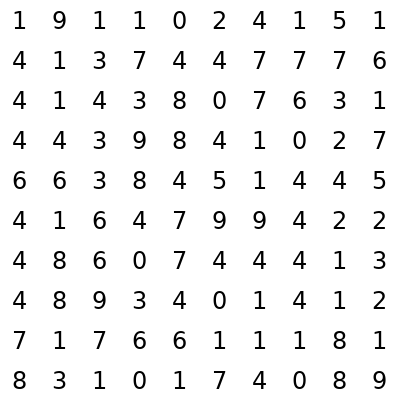
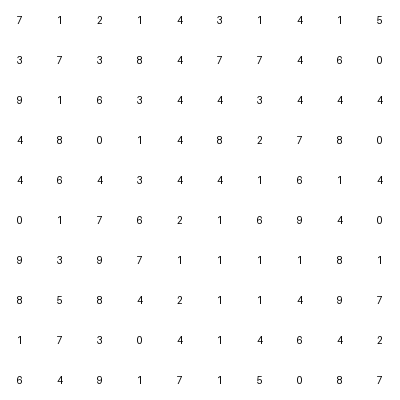
8 grids + unannounced attention grid, 7 of 9 for the bonus, 4 min; neutral consent page
Remove course, university and team names from the participant-facing page; questions
go through Prolific messages; note that payment requires finishing. The attention grid
now has the normal 25 s limit and counts toward the bonus, so it needs no explanation.

diff --git a/docs/grids.js b/docs/grids.js
@@ -1,2 +1,2 @@
 // Generated by stimuli/make_grids.py - do not edit by hand.
-window.GRIDS = [{"id": "g01", "kind": "scored", "answer": 8, "cells": [[1, 2, 1, 2, 5, 5, 6, 7, 1, 4], [6, 2, 4, 4, 1, 4, 9, 2, 1, 4], [4, 4, 1, 0, 6, 4, 4, 1, 4, 9], [5, 3, 1, 8, 4, 4, 7, 1, 7, 4], [3, 4, 4, 0, 9, 6, 8, 6, 9, 7], [8, 4, 3, 1, 0, 1, 8, 5, 6, 9], [8, 7, 7, 0, 1, 3, 4, 2, 1, 5], [6, 1, 2, 1, 0, 1, 1, 7, 9, 8], [4, 8, 1, 7, 5, 1, 1, 2, 1, 4], [4, 1, 1, 1, 9, 4, 6, 8, 5, 1]]}, {"id": "g02", "kind": "scored", "answer": 9, "cells": [[0, 3, 3, 1, 5, 0, 9, 0, 4, 0], [4, 5, 1, 4, 6, 1, 0, 1, 3, 7], [4, 9, 4, 0, 1, 4, 4, 7, 3, 4], [6, 0, 4, 0, 6, 4, 6, 5, 2, 8], [9, 1, 1, 4, 0, 4, 8, 5, 1, 1], [7, 1, 4, 1, 8, 4, 1, 7, 1, 5], [4, 1, 4, 8, 0, 4, 7, 8, 1, 4], [1, 1, 8, 2, 1, 7, 1, 7, 4, 7], [7, 1, 4, 8, 4, 1, 8, 4, 2, 4], [5, 1, 2, 6, 9, 0, 2, 8, 1, 6]]}, {"id": "g03", "kind": "scored", "answer": 11, "cells": [[1, 9, 1, 1, 0, 2, 4, 1, 5, 1], [4, 1, 3, 7, 4, 4, 7, 7, 7, 6], [4, 1, 4, 3, 8, 0, 7, 6, 3, 1], [4, 4, 3, 9, 8, 4, 1, 0, 2, 7], [6, 6, 3, 8, 4, 5, 1, 4, 4, 5], [4, 1, 6, 4, 7, 9, 9, 4, 2, 2], [4, 8, 6, 0, 7, 4, 4, 4, 1, 3], [4, 8, 9, 3, 4, 0, 1, 4, 1, 2], [7, 1, 7, 6, 6, 1, 1, 1, 8, 1], [8, 3, 1, 0, 1, 7, 4, 0, 8, 9]]}, {"id": "g04", "kind": "scored", "answer": 12, "cells": [[7, 6, 1, 4, 5, 2, 1, 4, 7, 3], [4, 1, 5, 5, 3, 0, 1, 1, 1, 4], [4, 1, 5, 1, 8, 6, 0, 8, 7, 4], [4, 5, 9, 1, 9, 9, 3, 7, 2, 2], [5, 4, 1, 3, 1, 7, 9, 4, 1, 1], [2, 1, 9, 6, 0, 1, 1, 8, 4, 8], [4, 3, 9, 5, 5, 8, 8, 9, 8, 4], [4, 9, 6, 7, 1, 0, 4, 0, 7, 1], [7, 6, 1, 1, 3, 1, 4, 4, 1, 1], [7, 4, 7, 1, 7, 0, 7, 4, 4, 1]]}, {"id": "g05", "kind": "scored", "answer": 13, "cells": [[6, 4, 4, 4, 1, 4, 7, 4, 3, 7], [4, 0, 2, 4, 7, 7, 1, 5, 3, 6], [4, 1, 0, 2, 5, 1, 1, 7, 7, 6], [4, 4, 4, 7, 1, 4, 4, 0, 1, 4], [7, 1, 1, 7, 1, 7, 1, 0, 2, 0], [3, 8, 4, 8, 1, 4, 4, 0, 4, 0], [1, 7, 1, 4, 6, 1, 3, 3, 6, 7], [4, 2, 4, 9, 1, 4, 9, 9, 7, 3], [5, 0, 6, 1, 1, 1, 2, 9, 2, 3], [8, 2, 5, 6, 5, 3, 1, 1, 0, 1]]}, {"id": "g06", "kind": "scored", "answer": 14, "cells": [[3, 9, 0, 1, 8, 0, 7, 4, 4, 8], [2, 7, 1, 4, 1, 7, 0, 5, 4, 9], [4, 8, 3, 7, 2, 8, 7, 4, 8, 1], [1, 7, 4, 7, 2, 2, 7, 6, 1, 1], [6, 1, 3, 7, 7, 9, 4, 1, 1, 1], [5, 4, 4, 1, 3, 8, 1, 5, 1, 1], [1, 7, 2, 1, 4, 7, 4, 9, 1, 4], [3, 1, 4, 7, 9, 9, 1, 8, 6, 8], [6, 1, 4, 1, 1, 1, 1, 6, 7, 4], [0, 8, 5, 4, 1, 8, 8, 9, 9, 5]]}, {"id": "g07", "kind": "scored", "answer": 15, "cells": [[1, 1, 7, 3, 5, 5, 4, 3, 1, 1], [2, 4, 7, 6, 4, 1, 7, 0, 1, 1], [8, 8, 1, 9, 8, 7, 8, 0, 0, 4], [7, 4, 4, 1, 9, 1, 8, 7, 4, 4], [1, 5, 7, 5, 1, 3, 1, 2, 4, 4], [1, 1, 7, 7, 0, 5, 4, 2, 8, 9], [6, 4, 3, 8, 1, 4, 9, 5, 6, 8], [7, 1, 8, 4, 4, 2, 4, 8, 7, 5], [8, 4, 7, 4, 8, 0, 9, 4, 4, 1], [1, 8, 7, 8, 4, 7, 5, 7, 1, 1]]}, {"id": "g08", "kind": "scored", "answer": 17, "cells": [[4, 0, 3, 7, 0, 4, 9, 5, 7, 4], [1, 0, 4, 9, 7, 4, 0, 8, 2, 4], [1, 7, 1, 4, 1, 1, 1, 3, 1, 7], [4, 4, 4, 2, 9, 4, 4, 9, 8, 7], [6, 7, 7, 3, 3, 4, 7, 4, 7, 3], [7, 2, 7, 5, 5, 4, 3, 5, 7, 4], [9, 6, 6, 2, 0, 4, 7, 4, 9, 1], [4, 1, 0, 4, 4, 1, 1, 7, 1, 8], [1, 6, 1, 1, 9, 4, 4, 5, 9, 1], [1, 7, 9, 7, 9, 0, 1, 1, 9, 5]]}, {"id": "g09", "kind": "scored", "answer": 18, "cells": [[4, 9, 3, 5, 1, 1, 6, 1, 4, 8], [2, 4, 1, 1, 2, 4, 2, 4, 1, 5], [0, 7, 1, 1, 2, 7, 5, 9, 8, 4], [1, 7, 4, 4, 1, 2, 1, 3, 7, 4], [4, 4, 1, 0, 5, 0, 7, 7, 3, 1], [7, 1, 7, 5, 0, 9, 1, 2, 9, 1], [7, 4, 4, 0, 1, 8, 1, 9, 7, 8], [1, 0, 0, 4, 4, 3, 8, 0, 9, 8], [1, 4, 4, 4, 7, 4, 7, 4, 5, 7], [7, 7, 5, 2, 7, 7, 7, 2, 9, 4]]}, {"id": "g10", "kind": "scored", "answer": 20, "cells": [[9, 3, 1, 1, 1, 1, 2, 3, 7, 0], [6, 4, 8, 3, 0, 4, 9, 2, 1, 4], [7, 8, 7, 4, 1, 7, 3, 8, 5, 4], [8, 7, 7, 7, 7, 1, 3, 4, 0, 7], [8, 4, 4, 0, 0, 3, 4, 4, 7, 7], [4, 4, 5, 4, 4, 7, 4, 1, 3, 5], [9, 3, 2, 9, 0, 4, 4, 4, 1, 4], [1, 7, 0, 7, 4, 3, 7, 4, 4, 4], [8, 0, 4, 7, 7, 6, 2, 7, 7, 6], [1, 9, 2, 2, 4, 1, 4, 4, 7, 4]]}, {"id": "attn", "kind": "attention", "answer": 3, "cells": [[0, 0, 0, 0, 0, 0, 0, 0, 0, 7], [0, 0, 0, 0, 0, 0, 0, 0, 0, 0], [0, 0, 0, 0, 0, 0, 0, 0, 0, 0], [0, 0, 0, 0, 0, 0, 0, 0, 0, 0], [0, 0, 0, 0, 0, 0, 0, 0, 0, 0], [0, 7, 0, 0, 0, 0, 0, 0, 0, 0], [0, 0, 0, 0, 0, 0, 0, 0, 0, 0], [0, 0, 0, 0, 0, 0, 0, 0, 0, 7], [0, 0, 0, 0, 0, 0, 0, 0, 0, 0], [0, 0, 0, 0, 0, 0, 0, 0, 0, 0]]}];
+window.GRIDS = [{"id": "g01", "kind": "scored", "answer": 8, "cells": [[1, 2, 1, 2, 5, 5, 6, 7, 1, 4], [6, 2, 4, 4, 1, 4, 9, 2, 1, 4], [4, 4, 1, 0, 6, 4, 4, 1, 4, 9], [5, 3, 1, 8, 4, 4, 7, 1, 7, 4], [3, 4, 4, 0, 9, 6, 8, 6, 9, 7], [8, 4, 3, 1, 0, 1, 8, 5, 6, 9], [8, 7, 7, 0, 1, 3, 4, 2, 1, 5], [6, 1, 2, 1, 0, 1, 1, 7, 9, 8], [4, 8, 1, 7, 5, 1, 1, 2, 1, 4], [4, 1, 1, 1, 9, 4, 6, 8, 5, 1]]}, {"id": "g02", "kind": "scored", "answer": 10, "cells": [[6, 4, 1, 0, 5, 8, 4, 4, 3, 6], [1, 1, 4, 9, 4, 7, 0, 4, 5, 0], [4, 1, 7, 6, 4, 6, 2, 1, 6, 0], [8, 8, 4, 3, 9, 0, 2, 0, 4, 1], [4, 1, 9, 8, 1, 0, 1, 4, 4, 4], [1, 7, 1, 0, 1, 1, 7, 9, 4, 4], [1, 1, 2, 7, 0, 1, 4, 4, 7, 3], [8, 4, 7, 1, 7, 1, 7, 7, 1, 1], [0, 4, 4, 0, 4, 8, 4, 8, 0, 5], [2, 2, 8, 9, 5, 1, 8, 5, 1, 3]]}, {"id": "g03", "kind": "scored", "answer": 11, "cells": [[7, 1, 2, 1, 4, 3, 1, 4, 1, 5], [3, 7, 3, 8, 4, 7, 7, 4, 6, 0], [9, 1, 6, 3, 4, 4, 3, 4, 4, 4], [4, 8, 0, 1, 4, 8, 2, 7, 8, 0], [4, 6, 4, 3, 4, 4, 1, 6, 1, 4], [0, 1, 7, 6, 2, 1, 6, 9, 4, 0], [9, 3, 9, 7, 1, 1, 1, 1, 8, 1], [8, 5, 8, 4, 2, 1, 1, 4, 9, 7], [1, 7, 3, 0, 4, 1, 4, 6, 4, 2], [6, 4, 9, 1, 7, 1, 5, 0, 8, 7]]}, {"id": "g04", "kind": "scored", "answer": 13, "cells": [[7, 5, 4, 4, 0, 8, 1, 1, 7, 9], [1, 1, 9, 6, 4, 4, 7, 5, 5, 2], [1, 1, 3, 1, 7, 1, 4, 9, 4, 0], [1, 0, 1, 9, 7, 5, 5, 8, 1, 0], [7, 5, 1, 4, 1, 9, 1, 8, 3, 8], [4, 2, 3, 4, 0, 4, 6, 9, 1, 1], [6, 3, 2, 5, 1, 4, 8, 6, 7, 4], [0, 4, 9, 7, 1, 7, 0, 4, 1, 9], [1, 4, 1, 4, 9, 7, 1, 7, 4, 7], [6, 7, 1, 4, 1, 1, 3, 4, 2, 9]]}, {"id": "g05", "kind": "scored", "answer": 15, "cells": [[1, 4, 3, 1, 7, 7, 7, 1, 1, 4], [7, 1, 1, 4, 1, 1, 1, 0, 3, 7], [0, 5, 7, 4, 2, 7, 7, 6, 4, 4], [1, 4, 4, 6, 7, 4, 5, 7, 9, 4], [4, 8, 1, 2, 3, 1, 1, 4, 5, 4], [2, 4, 7, 4, 7, 3, 1, 8, 1, 2], [2, 1, 6, 1, 0, 0, 2, 7, 4, 6], [1, 0, 1, 4, 3, 9, 7, 5, 6, 0], [9, 4, 4, 4, 3, 3, 0, 8, 3, 2], [9, 0, 5, 5, 1, 1, 2, 4, 7, 6]]}, {"id": "g06", "kind": "scored", "answer": 16, "cells": [[4, 7, 3, 1, 2, 4, 8, 2, 7, 7], [4, 2, 4, 7, 7, 2, 1, 4, 0, 1], [7, 1, 7, 7, 1, 4, 1, 4, 1, 1], [6, 3, 7, 9, 2, 4, 1, 1, 8, 6], [7, 9, 5, 1, 9, 4, 3, 4, 3, 4], [5, 0, 4, 5, 8, 1, 1, 7, 0, 1], [4, 7, 7, 1, 8, 4, 1, 9, 1, 1], [7, 0, 8, 4, 3, 8, 5, 1, 4, 7], [1, 1, 4, 7, 1, 0, 3, 6, 1, 1], [8, 9, 2, 6, 2, 1, 6, 5, 8, 8]]}, {"id": "g07", "kind": "scored", "answer": 18, "cells": [[6, 8, 8, 8, 4, 5, 3, 4, 4, 1], [6, 7, 4, 1, 4, 1, 7, 4, 5, 9], [7, 1, 4, 0, 6, 4, 2, 7, 7, 7], [4, 0, 7, 1, 1, 9, 4, 7, 1, 8], [3, 5, 3, 1, 1, 3, 1, 1, 8, 7], [1, 1, 0, 2, 1, 1, 4, 7, 6, 9], [4, 4, 1, 8, 8, 1, 5, 7, 3, 9], [4, 7, 1, 8, 5, 8, 1, 4, 1, 5], [2, 7, 6, 4, 7, 8, 7, 1, 4, 3], [7, 1, 4, 7, 7, 9, 3, 4, 5, 0]]}, {"id": "g08", "kind": "scored", "answer": 20, "cells": [[7, 8, 1, 0, 7, 4, 1, 9, 8, 6], [1, 1, 4, 7, 7, 6, 9, 5, 4, 2], [4, 1, 4, 1, 9, 1, 1, 7, 5, 4], [6, 9, 7, 1, 4, 3, 0, 3, 9, 7], [9, 5, 2, 7, 2, 8, 7, 1, 4, 4], [4, 3, 7, 3, 9, 2, 6, 1, 1, 1], [4, 7, 0, 7, 1, 1, 5, 1, 4, 4], [1, 8, 4, 5, 9, 7, 9, 7, 1, 4], [3, 1, 7, 7, 7, 9, 4, 1, 1, 7], [3, 7, 0, 4, 4, 7, 6, 5, 4, 0]]}, {"id": "attn", "kind": "attention", "answer": 3, "cells": [[0, 0, 0, 0, 0, 0, 0, 0, 0, 0], [0, 0, 0, 0, 0, 7, 0, 0, 0, 0], [0, 0, 0, 0, 0, 0, 0, 0, 0, 0], [0, 0, 0, 0, 0, 7, 0, 0, 0, 0], [0, 0, 0, 0, 0, 0, 0, 0, 0, 0], [0, 0, 0, 0, 0, 0, 7, 0, 0, 0], [0, 0, 0, 0, 0, 0, 0, 0, 0, 0], [0, 0, 0, 0, 0, 0, 0, 0, 0, 0], [0, 0, 0, 0, 0, 0, 0, 0, 0, 0], [0, 0, 0, 0, 0, 0, 0, 0, 0, 0]]}];

diff --git a/docs/app.js b/docs/app.js
@@ -1,7 +1,7 @@
-/* Counting study: lottery vs fixed bonus (CS 5306 Project 3).
+/* Counting study: lottery vs fixed bonus.
  *
  * Flow: consent -> condition assignment -> instructions -> comprehension check
- *       -> 11 timed grids (10 scored + 1 attention check, random order)
+ *       -> timed grids in random order (scored grids + one unannounced easy attention grid)
  *       -> effort question -> save to DataPipe -> redirect to Prolific.
  *
  * URL parameters:
@@ -39,7 +39,6 @@
       viewport: `${window.innerWidth}x${window.innerHeight}`,
       seconds_per_grid: CFG.SECONDS_PER_GRID,
       bonus_threshold: CFG.BONUS_THRESHOLD,
-      n_scored: CFG.N_SCORED,
       fixed_bonus: CFG.FIXED_BONUS,
       lottery_prize: CFG.LOTTERY_PRIZE,
       comprehension_attempts: 0,
@@ -86,15 +85,15 @@
   const nTotal = window.GRIDS.length;
 
   function bonusText(compact) {
-    const t = CFG.BONUS_THRESHOLD, n = CFG.N_SCORED;
+    const t = CFG.BONUS_THRESHOLD, n = nTotal;
     if (state.meta.condition === "fixed") {
       return compact
         ? `<b>Bonus:</b> count at least ${t} of ${n} grids exactly right &rarr; you receive <b>${CFG.FIXED_BONUS}</b>.`
-        : `If you count at least <b>${t} of the ${n}</b> counting grids exactly right, you will receive a <b>${CFG.FIXED_BONUS} bonus</b>.`;
+        : `If you count at least <b>${t} of the ${n}</b> grids exactly right, you will receive a <b>${CFG.FIXED_BONUS} bonus</b>.`;
     }
     return compact
       ? `<b>Bonus:</b> count at least ${t} of ${n} grids exactly right &rarr; you enter a draw for one <b>${CFG.LOTTERY_PRIZE}</b> prize.`
-      : `If you count at least <b>${t} of the ${n}</b> counting grids exactly right, you will be entered into a <b>prize draw</b>. ` +
+      : `If you count at least <b>${t} of the ${n}</b> grids exactly right, you will be entered into a <b>prize draw</b>. ` +
         `One <b>${CFG.LOTTERY_PRIZE} prize</b> will be drawn at random from all qualifying participants in this version of the study ` +
         `(about ${CFG.PARTICIPANTS_PER_CONDITION} people take part in it).`;
   }
@@ -112,13 +111,13 @@
   function screenConsent() {
     render(`
       <h1>Counting study</h1>
-      <p>This is a short study run by students in a Cornell University course on crowdsourcing (CS 5306).
-      You will count how many times a digit appears in a series of grids. It takes about ${CFG.EST_MINUTES} minutes.</p>
+      <p>This is a short research study. You will count how many times a digit appears in a series of grids. It takes about ${CFG.EST_MINUTES} minutes.</p>
       <ul>
         <li>Base payment is made through Prolific. Some participants can also earn a bonus, explained on the next page.</li>
         <li>We record your answers, how long you take, and your Prolific ID (used only to pay bonuses). We do not collect your name or contact details.</li>
-        <li>Taking part is voluntary. You may stop at any time by closing this page and returning the study on Prolific.</li>
-        <li>Questions: contact ${esc(CFG.CONTACT)}.</li>
+        <li>Taking part is voluntary. You may stop at any time by closing this page and returning the study on Prolific.
+        Please note that you will only be paid if you complete the entire task.</li>
+        <li>Questions: please message us through Prolific's message system.</li>
       </ul>
       <p>Do you agree to take part?</p>
       <div class="row">
@@ -181,9 +180,8 @@
       <h1>Instructions</h1>
       <p>You will see <b>${nTotal} grids</b> of digits, one at a time. For each grid, count how many times the digit
       <b>7</b> appears, type the number, and press <b>Enter</b> (or click Submit).</p>
-      <p>Each counting grid has a <b>${CFG.SECONDS_PER_GRID}-second</b> time limit (shown at the top right). When time runs out,
+      <p>Each grid has a <b>${CFG.SECONDS_PER_GRID}-second</b> time limit (shown at the top right). When time runs out,
       whatever you have typed is submitted automatically and the next grid appears. A blank answer counts as wrong.</p>
-      <p>${CFG.N_SCORED} of the grids are counting grids. One extra grid is a quick check that you are paying attention.</p>
       <div class="bonus">${bonusText(false)}</div>
       <p class="muted">Bonuses are paid through Prolific within a week after the study closes.</p>
       <div class="row"><button class="btn" id="next">Continue</button></div>`);
@@ -202,7 +200,7 @@
     render(`
       <h1>Quick check</h1>
       ${wrongBefore ? `<p class="error">That's not right. Please read the bonus rule again:</p><div class="bonus">${bonusText(false)}</div>` : ""}
-      <p>What happens if you count at least ${CFG.BONUS_THRESHOLD} of the ${CFG.N_SCORED} counting grids exactly right?</p>
+      <p>What happens if you count at least ${CFG.BONUS_THRESHOLD} of the ${nTotal} grids exactly right?</p>
       ${options.map((o) => `<label class="choice"><input type="radio" name="cq" value="${o.key}"> ${esc(o.text)}</label>`).join("")}
       <div class="row"><button class="btn" id="next" disabled>Start counting</button></div>`);
     const btn = document.getElementById("next");
@@ -251,7 +249,7 @@
 
   function runOneTrial(grid, position) {
     return new Promise((resolve) => {
-      const limitSec = grid.kind === "attention" ? CFG.ATTENTION_SECONDS : CFG.SECONDS_PER_GRID;
+      const limitSec = CFG.SECONDS_PER_GRID;
       const limitMs = limitSec * 1000;
       render(`
         <div class="bonus compact">${bonusText(true)}</div>

diff --git a/docs/config.js b/docs/config.js
@@ -10,18 +10,14 @@ window.STUDY_CONFIG = {
   // From Prolific: Study setup -> Study completion -> completion code.
   PROLIFIC_COMPLETION_CODE: "C12XGGIW",
 
-  // Task parameters (keep in sync with the proposal / Prolific listing).
+  // Task parameters (keep in sync with the Prolific listing).
   SECONDS_PER_GRID: 25,
-  ATTENTION_SECONDS: 10,       // the easy attention-check grid
   READY_MS: 800,               // "Get ready" pause between grids
-  BONUS_THRESHOLD: 8,          // out of the 10 scored grids
-  N_SCORED: 10,
+  BONUS_THRESHOLD: 7,          // out of all grids shown, the easy attention grid included
   FIXED_BONUS: "$0.25",
   LOTTERY_PRIZE: "$4",
   PARTICIPANTS_PER_CONDITION: 30,
-  BASE_PAY: "$0.67",
-  EST_MINUTES: 5,
-  CONTACT: "the CS 5306 Project 3 team (Kevin Lei, Kyungmin Nam, Brittany Sun) via Prolific's message system",
+  EST_MINUTES: 4,
 
   // DataPipe condition number -> condition name.
   CONDITIONS: ["fixed", "lottery"],

diff --git a/analysis/analyze.py b/analysis/analyze.py
@@ -73,9 +73,11 @@ def score(people: pd.DataFrame, trials: pd.DataFrame) -> pd.DataFrame:
         tab_hidden=("tab_hidden_count", "sum"),
     )
     att = trials[trials.kind == "attention"].set_index("file")["correct"].rename("attention_pass")
+    shown = trials.groupby("file")["correct"].sum().rename("n_correct_shown")
     out = people.merge(per, left_on="file", right_index=True, how="left").merge(
-        att, left_on="file", right_index=True, how="left")
-    out["n_correct"] = out["n_correct"].fillna(0).astype(int)
+        att, left_on="file", right_index=True, how="left").merge(
+        shown, left_on="file", right_index=True, how="left")
+    out[["n_correct", "n_correct_shown"]] = out[["n_correct", "n_correct_shown"]].fillna(0).astype(int)
     return out
 
 
@@ -84,7 +86,6 @@ def apply_exclusions(p: pd.DataFrame) -> pd.DataFrame:
     p["exclusion"] = ""
     dup = p.duplicated("pid", keep="first")
     p.loc[dup, "exclusion"] = "duplicate (kept first attempt)"
-    p.loc[(p.exclusion == "") & (p.n_grids < p.n_scored), "exclusion"] = "incomplete"
     p.loc[(p.exclusion == "") & (p.attention_pass != True), "exclusion"] = "failed attention check"  # noqa: E712
     p.loc[(p.exclusion == "") & (p.n_blank >= 5), "exclusion"] = "5+ blank answers"
     p["included"] = p.exclusion == ""
@@ -92,11 +93,12 @@ def apply_exclusions(p: pd.DataFrame) -> pd.DataFrame:
 
 
 def bonuses(p: pd.DataFrame, seed: int, out: Path, submission_ids: dict | None) -> pd.DataFrame:
-    """Bonus rule is the one shown to participants: >= threshold correct of the scored grids.
+    """Bonus rule is the one shown to participants: >= threshold correct of ALL grids shown,
+    the unannounced attention grid included.
     It applies to everyone who completed the task, including people excluded from analysis."""
     p = p.copy()
     first = ~p.duplicated("pid", keep="first")
-    p["bonus_eligible"] = first & (p.n_correct >= p.bonus_threshold)
+    p["bonus_eligible"] = first & (p.n_correct_shown >= p.bonus_threshold)
     p["bonus_usd"] = 0.0
     p.loc[p.bonus_eligible & (p.condition == "fixed"), "bonus_usd"] = FIXED_AMOUNT
 
@@ -182,7 +184,7 @@ def run_stats(p: pd.DataFrame, trials: pd.DataFrame) -> list[str]:
         abs_error_mean=("mean_abs_error", "mean"),
         seconds_per_grid=("mean_rt_s", "mean"),
         timeouts_per_person=("n_timeouts", "mean"),
-        bonus_rate=("n_correct", lambda s: (s >= inc.bonus_threshold.iloc[0]).mean()),
+        bonus_rate=("bonus_eligible", "mean"),
         effort_rating=("effort_rating", "mean"),
     ).reindex(COND_ORDER)
     md += ["## Descriptives (included participants)", "", desc.round(2).to_markdown(), ""]
@@ -227,15 +229,18 @@ def run_stats(p: pd.DataFrame, trials: pd.DataFrame) -> list[str]:
 
 def figures(p: pd.DataFrame, trials: pd.DataFrame, out: Path):
     inc = p[p.included]
+    n_scored = trials.loc[trials.kind == "scored", "grid_id"].nunique()
+    # Included people all passed the attention grid, so it already counts 1 toward the bonus.
+    thr = inc.bonus_threshold.iloc[0] - 1
     fig, ax = plt.subplots(figsize=(6.5, 3.6))
-    xs = np.arange(0, 11)
+    xs = np.arange(0, n_scored + 1)
     for k, c in enumerate(COND_ORDER):
         counts = inc.loc[inc.condition == c, "n_correct"].value_counts().reindex(xs, fill_value=0)
         ax.bar(xs + (k - 0.5) * 0.4, counts.values, width=0.4, label=c, color=COLORS[c])
     ax.set_xticks(xs)
-    ax.axvline(inc.bonus_threshold.iloc[0] - 0.5, color="#555", ls="--", lw=1)
-    ax.text(inc.bonus_threshold.iloc[0] - 0.4, ax.get_ylim()[1] * 0.92, "bonus threshold", fontsize=9, color="#555")
-    ax.set_xlabel("Grids counted exactly right (of 10)")
+    ax.axvline(thr - 0.5, color="#555", ls="--", lw=1)
+    ax.text(thr - 0.4, ax.get_ylim()[1] * 0.92, "bonus threshold", fontsize=9, color="#555")
+    ax.set_xlabel(f"Grids counted exactly right (of {n_scored})")
     ax.set_ylabel("Participants")
     ax.legend(frameon=False)
     ax.spines[["top", "right"]].set_visible(False)
@@ -276,7 +281,7 @@ def main():
     p = bonuses(p, args.seed, args.out, submission_ids)
 
     keep = ["pid", "condition", "condition_source", "n_correct", "n_grids", "mean_abs_error", "mean_rt_s",
-            "n_timeouts", "n_blank", "attention_pass", "comprehension_attempts", "effort_rating",
+            "n_correct_shown", "n_timeouts", "n_blank", "attention_pass", "comprehension_attempts", "effort_rating",
             "tab_hidden", "included", "exclusion", "bonus_eligible", "bonus_usd", "started_at", "file", "comment"]
     p[keep].to_csv(args.out / "participants.csv", index=False)
     trials.to_csv(args.out / "trials.csv", index=False)

diff --git a/tests/e2e_test.py b/tests/e2e_test.py
@@ -34,7 +34,6 @@ def patched_config(experiment_id="REPLACE_ME", seconds=3):
     src = re.sub(r'DATAPIPE_EXPERIMENT_ID: "[^"]*"', f'DATAPIPE_EXPERIMENT_ID: "{experiment_id}"', src)
     src = re.sub(r'PROLIFIC_COMPLETION_CODE: "[^"]*"', 'PROLIFIC_COMPLETION_CODE: "TESTCODE1"', src)
     src = re.sub(r"SECONDS_PER_GRID: \d+", f"SECONDS_PER_GRID: {seconds}", src)
-    src = re.sub(r"ATTENTION_SECONDS: \d+", f"ATTENTION_SECONDS: {seconds}", src)
     return src
 
 
@@ -61,7 +60,6 @@ def do_run(page, base, query, cfg, answers, wrong_first=False, condition_reply=N
     page.click("#next")
 
     page.wait_for_selector("text=Quick check")
-    cond = page.evaluate("document.querySelector('.bonus') ? null : null")  # placeholder
     if wrong_first:
         page.check('input[value="none"]')
         page.click("#next")
@@ -88,7 +86,7 @@ def do_run(page, base, query, cfg, answers, wrong_first=False, condition_reply=N
 def main():
     OUT.mkdir(exist_ok=True)
     srv, base = serve()
-    answers = [12, 12, None, 3, 15, 8, 20, 9, 11, 14, 13]  # one blank -> timeout
+    answers = [12, 12, None, 3, 15, 8, 20, 9, 11]  # one blank -> timeout
     results = {}
     with sync_playwright() as p:
         browser = p.chromium.launch(executable_path=CHROME, args=["--no-sandbox"])
@@ -101,7 +99,7 @@ def main():
         data = page.evaluate("window.__STUDY_DATA__")
         assert data["meta"]["condition"] == "fixed" and right == "fixed"
         assert data["meta"]["comprehension_attempts"] == 2
-        assert len(data["trials"]) == 11
+        assert len(data["trials"]) == 9
         t_out = [t for t in data["trials"] if t["timed_out"]]
         assert len(t_out) == 1 and t_out[0]["answer"] is None and t_out[0]["rt_ms"] == 3000
         results["local"] = data

diff --git a/tests/simulate_data.py b/tests/simulate_data.py
@@ -25,7 +25,7 @@ def person(rng, grids, pid, condition, effect, t0):
     rng.shuffle(order)
     trials = []
     for i, g in enumerate(order):
-        limit = 10000 if g["kind"] == "attention" else 25000
+        limit = 25000
         if g["kind"] == "attention":
             ok = rng.random() < 0.95
         else:
@@ -45,8 +45,8 @@ def person(rng, grids, pid, condition, effect, t0):
         "version": "1.0.0", "prolific_pid": pid, "study_id": "sim", "session_id": "sim",
         "participant_id": pid, "test_run": False, "local_mode": False, "condition": condition,
         "condition_source": "datapipe", "started_at": t0.isoformat(),
-        "finished_at": (t0 + timedelta(minutes=5)).isoformat(), "user_agent": "sim", "screen": "1920x1080",
-        "viewport": "1400x900", "seconds_per_grid": 25, "bonus_threshold": 8, "n_scored": 10,
+        "finished_at": (t0 + timedelta(minutes=4)).isoformat(), "user_agent": "sim", "screen": "1920x1080",
+        "viewport": "1400x900", "seconds_per_grid": 25, "bonus_threshold": 7,
         "fixed_bonus": "$0.25", "lottery_prize": "$4", "comprehension_attempts": rng.choice([1, 1, 1, 2]),
         "instructions_ms": 20000, "effort_rating": rng.randint(4, 7), "comment": None,
         "grid_order": [g["id"] for g in order],

diff --git a/stimuli/make_grids.py b/stimuli/make_grids.py
@@ -18,10 +18,9 @@ from pathlib import Path
 SEED = 5306
 ROWS = COLS = 10
 TARGET = 7
-N_SCORED = 10
-# Target counts for the 10 scored grids: spread 8..20, all distinct so a
+# Target counts for the scored grids: spread 8..20, all distinct so a
 # worker can't guess a common answer.
-TARGET_COUNTS = [8, 9, 11, 12, 13, 14, 15, 17, 18, 20]
+TARGET_COUNTS = [8, 10, 11, 13, 15, 16, 18, 20]
 # Distractor mix: half the non-targets are the look-alike digits 1 and 4,
 # the rest are other digits. Keeps the task effortful but not impossible.
 LOOKALIKES = [1, 4]
@@ -107,7 +106,7 @@ def main() -> None:
         for g in grids:
             render_png(g["cells"], out / f"{g['id']}.png")
 
-    print(f"Wrote {len(grids)} grids ({N_SCORED} scored + 1 attention check).")
+    print(f"Wrote {len(grids)} grids ({len(TARGET_COUNTS)} scored + 1 attention check).")
 
 
 if __name__ == "__main__":

diff --git a/README.md b/README.md
@@ -2,10 +2,11 @@
 
 Team Katseye: Kevin Lei (kl2344), Kyungmin Nam (kn467), Brittany Sun (bs835)
 
-Workers count the 7s in 10 grids of digits (25 s per grid) plus one easy attention-check grid.
-Half get a fixed $0.25 bonus for 8+ correct; half get entered into a draw for one $4 prize.
-Prolific recruits and pays. The task itself is a static web page on GitHub Pages, and data is
-saved through DataPipe to Google Drive.
+Workers count the 7s in 9 grids of digits (25 s per grid): 8 counting grids plus one easy attention-check
+grid that is mixed in unannounced. The bonus needs 7+ of the 9 correct. Half get a fixed $0.25 bonus;
+half get entered into a draw for one $4 prize.
+Prolific recruits and pays. The task itself is a static web page on GitHub Pages
+(https://kleithegreat.github.io/counting-study/), and data is saved through DataPipe to Google Drive.
 
 ```
 docs/        the study page (GitHub Pages serves this folder)
@@ -20,17 +21,16 @@ tests/       browser test + fake-data generator
 ### 1. DataPipe: saves the data (about 10 min, one person)
 1. Sign in at https://pipe.jspsych.org.
 2. **Account settings -> Connect** next to **Google Drive** and sign in with the Google account that should hold the data.
-3. **New Experiment**: title "CS5306 counting study", provider Google Drive.
+3. **New Experiment**: title "counting study", provider Google Drive.
 4. On the experiment dashboard:
    - turn **Accept new data** ON,
    - turn **Condition assignment** ON and set the number of conditions to **2**
      (0 = fixed, 1 = lottery; DataPipe alternates 0, 1, 0, 1 so groups stay balanced).
 5. Copy the **experiment ID** into `docs/config.js` -> `DATAPIPE_EXPERIMENT_ID`.
 
-### 2. GitHub Pages: hosts the page (about 5 min)
-1. Create a **public** GitHub repo (for example `cs5306-counting`) and push this folder to it.
-2. Repo **Settings -> Pages**. Source: *Deploy from a branch*, branch `main`, folder **`/docs`**.
-3. After a minute the page is live at `https://<username>.github.io/cs5306-counting/`.
+### 2. GitHub Pages: hosts the page (done)
+Pages serves `/docs` from `main` at https://kleithegreat.github.io/counting-study/. Every push to `main` redeploys it within a minute or so.
+The repo name is deliberately neutral, because participants can see the URL.
 
 ### 3. Prolific (teammate)
 | Setting | Value |
@@ -38,20 +38,20 @@ tests/       browser test + fake-data generator
 | Study URL | the GitHub Pages link above; choose **"I'll use URL parameters"** so Prolific appends `PROLIFIC_PID`, `STUDY_ID`, `SESSION_ID` |
 | Study completion | **"I'll redirect them using a URL"**; copy the code into `docs/config.js` -> `PROLIFIC_COMPLETION_CODE`, then push |
 | Devices | Desktop only |
-| Estimated time | 5 minutes |
-| Reward | $0.67 (= $8.04/hr, Prolific's minimum) |
+| Estimated time | 4 minutes |
+| Reward | $0.54 (= $8.10/hr, Prolific's minimum) |
 | Places | **10** first (soft launch), then raise to **60** |
 | Suggested filters | approval rate >= 95%, fluent English |
 
 Suggested listing text:
-> **Count the 7s (about 5 minutes)**. Count how many times the digit 7 appears in a series of grids of
+> **Count the 7s (about 4 minutes)**. Count how many times the digit 7 appears in a series of grids of
 > digits. Each grid has a 25-second time limit. You can earn a bonus for accurate counting; the details
 > are shown at the start. Please use a laptop or desktop computer.
 
 Don't describe the two bonus versions in the listing. Each person should only see their own.
 
 ### 4. Test before launch
-- Open `https://<username>.github.io/cs5306-counting/?test=1` and run through it. Test runs are saved as `TEST_...json`
+- Open `https://kleithegreat.github.io/counting-study/?test=1` and run through it. Test runs are saved as `TEST_...json`
   and don't use up DataPipe's condition counter. Add `&condition=lottery` or `&condition=fixed` to see each version.
   Check that the file shows up in Google Drive.
 - Use Prolific's **Preview** to check the redirect back to Prolific.
@@ -62,7 +62,7 @@ Don't describe the two bonus versions in the listing. Each person should only se
 
 ### 5. Soft launch, then full launch
 Publish with 10 places. When they finish, check:
-- median completion time on Prolific is 5 minutes or less. Worst case, if someone uses every second, is about 5.5 minutes.
+- median completion time on Prolific is 4 minutes or less. Worst case, if someone uses every second, is about 5 minutes.
   If the median runs over, Prolific will ask for top-up payments;
 - the score spread: run the analysis (below) and look at `bonus_rate`. Roughly 30-70% should qualify.
   If almost nobody or almost everybody qualifies, change the threshold **before** adding places.
@@ -84,14 +84,14 @@ If nothing changes, keep those 10 in the data and raise places to 60.
    submissions -> **Bulk actions -> Bulk bonus payment** and paste `results/bonuses_prolific.txt`.
    Prolific requires **Submission IDs**, not Participant IDs; the script takes them from the Prolific export, so always
    pass `--prolific-export`. Bonuses carry the same 33.3% platform fee, so top up the balance by about $10 first.
-   - Bonus rule is exactly what participants were told: 8+ of 10 counting grids correct. It also applies to people
-     excluded from the analysis, such as those who failed the attention check.
+   - Bonus rule is exactly what participants were told: 7+ of the 9 grids shown correct, the easy attention grid
+     included. It also applies to people excluded from the analysis, such as those who failed the attention check.
    - The lottery winner is drawn with fixed seed **20261215**, committed to this repo before data collection.
      `results/lottery_draw.txt` lists everyone eligible and the winner, so anyone can re-run and check it.
 
 ### What the analysis does
 - **Exclusions** (from the analysis, not from pay): failed attention-check grid, duplicate attempts (first kept),
-  incomplete, or 5+ blank answers.
+  or 5+ blank answers. Outcomes use only the 8 counting grids.
 - **Outcomes**: grids correct per person (Welch t-test, Mann-Whitney, Cohen's d); per-grid correctness (logistic GEE
   clustered by participant, with grid fixed effects); absolute error and seconds per grid (linear mixed models,
   random intercept per participant); share of grids that hit the timer.
